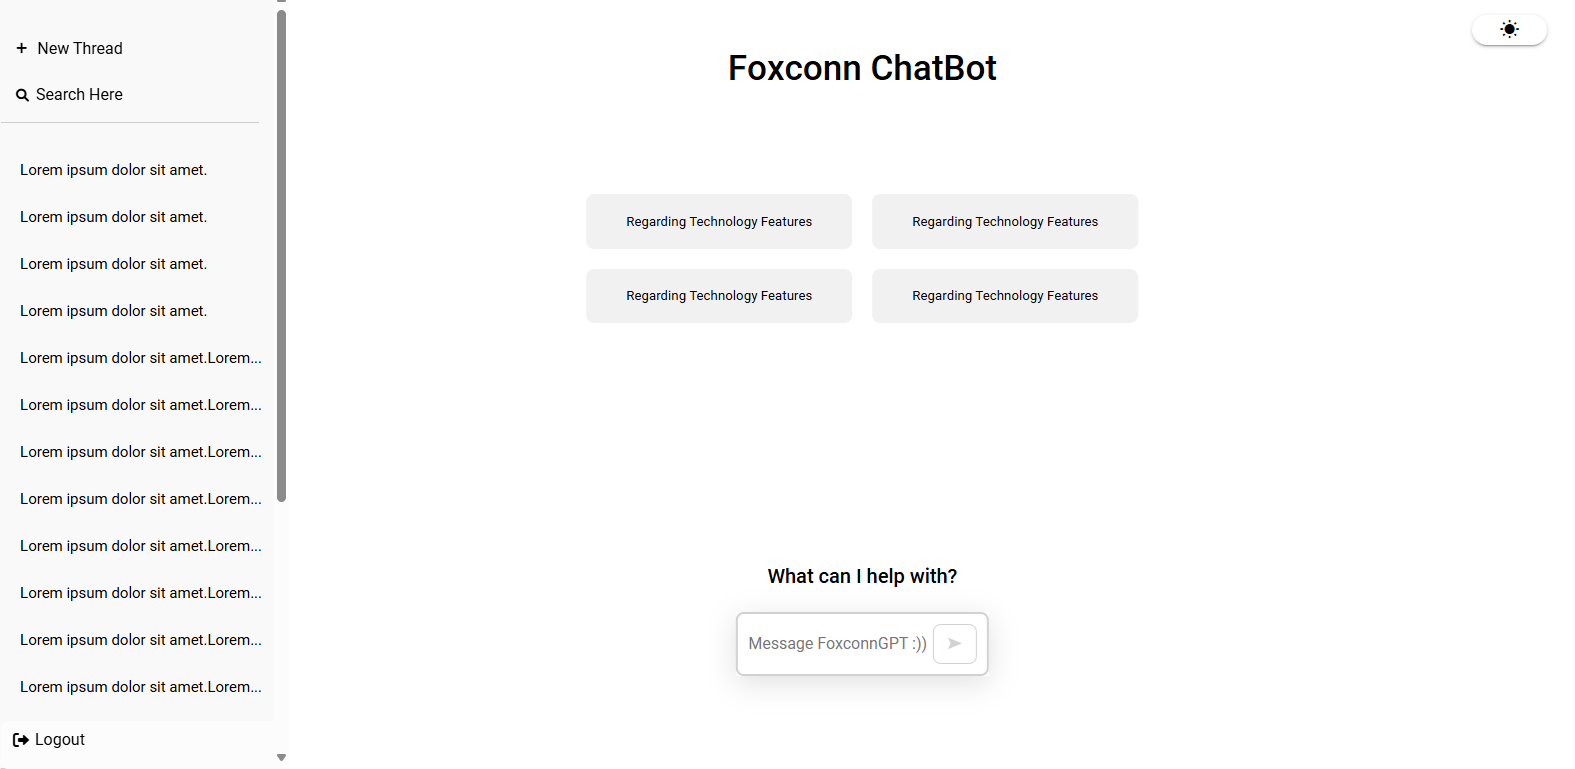
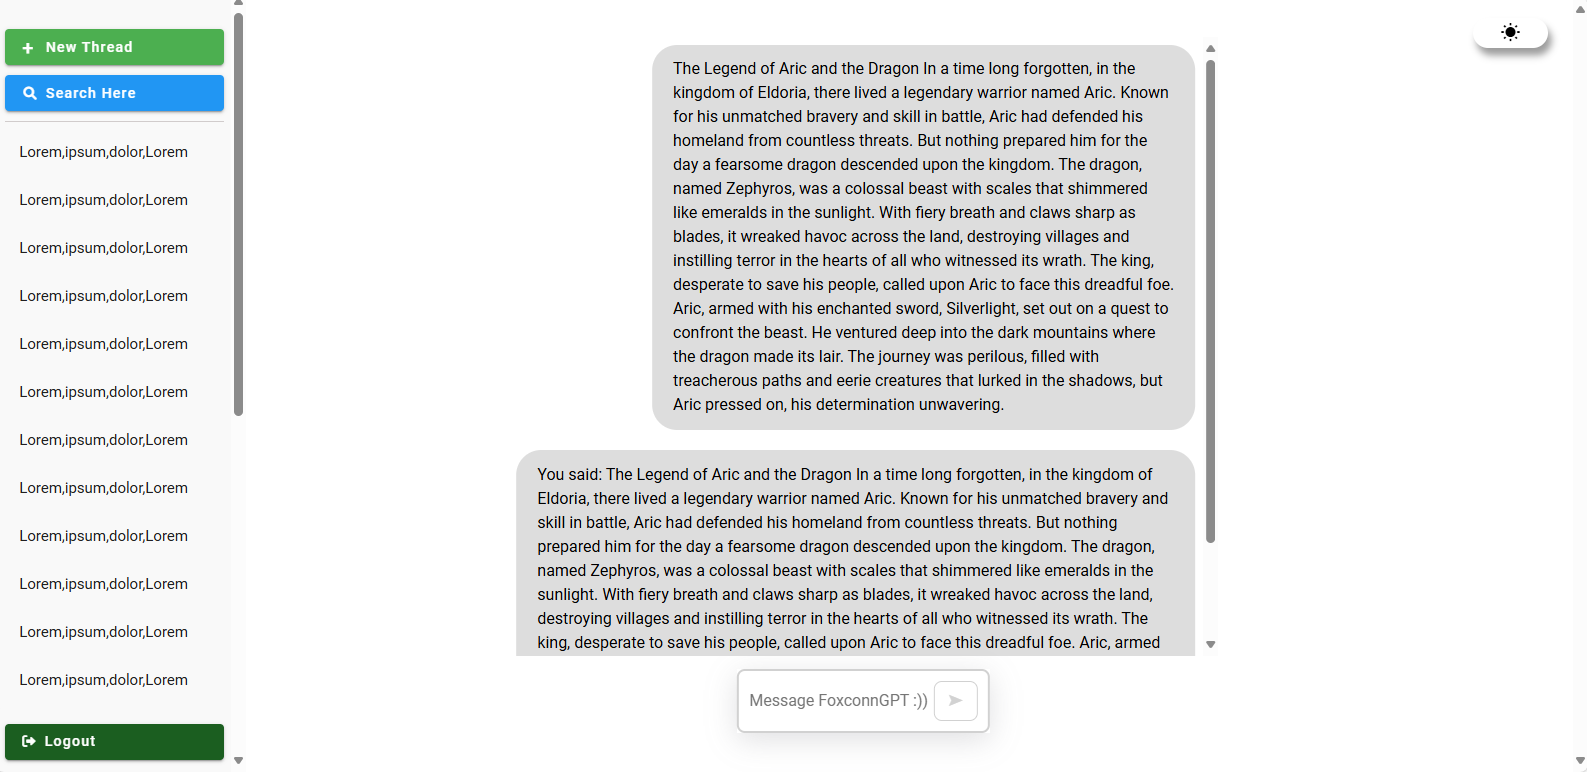
changeMD

diff --git a/README.md b/README.md
@@ -9,4 +9,12 @@ npm install
 ```
 npm run serve
 ```
-
+## The interface of Chatbot can be look like below, any changes will be updated later 😊
+The basic interface:
+![Layout1](./src/assets/Layout0.png)
+The chat interface:
+![Layout1](./src/assets/Layout1.png)
+The Search bar interface:
+![Layout1](./src/assets/Layout2.png)
+The basic interface with darkmode:
+![Layout1](./src/assets/Layout3.png)
